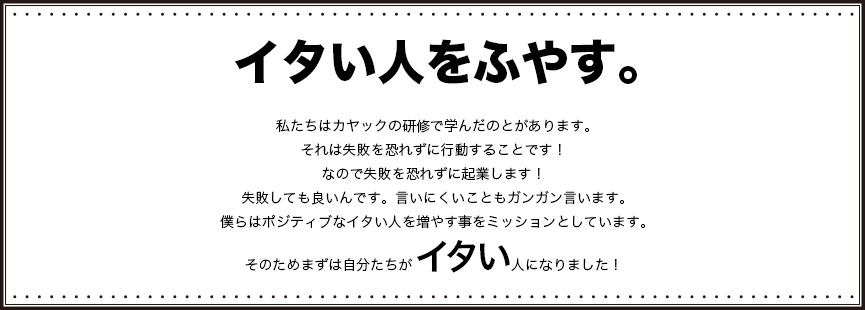
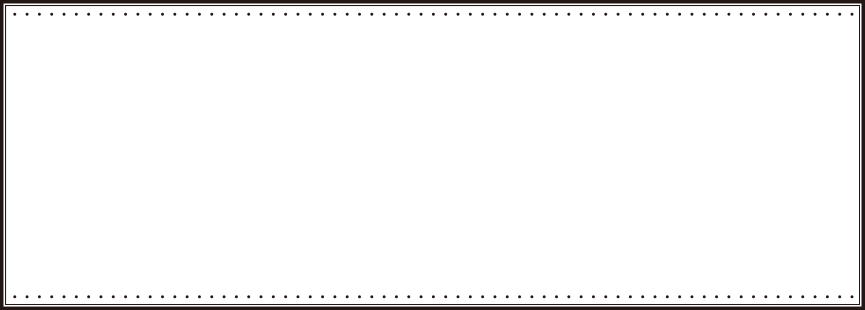
画像htmlcss修正

diff --git a/index.html b/index.html
@@ -11,7 +11,15 @@
       <img src="./image/logo.png" alt="logo" />
     </div>
     <div class="keiei_rinen">
-    　　経営理念
+      <p class="rinen_main">イタい人をふやす。</p>
+      <p class="rinen_text">
+        私たちはカヤックの研修で学んだことがあります。<br>
+        それは失敗を恐れずに行動することです！<br>
+        なので失敗を恐れずに起業します！<br>
+        失敗しても良いんです。言いにくいこともガンガン言います。<br>
+        僕らはポジティブなイタい人を増やす事をミッションとしています。<br>
+        そのためまずは自分たちが<span class="itai">イタい</span>人になりました！<br>
+      </p>
     </div>
     <div class="jigyoubu_list_container">
       <div class="jigyoubu_list herunia">

diff --git a/style.css b/style.css
@@ -1,3 +1,9 @@
+*{
+  border: none;
+  box-sizing: border-box;
+  margin: 0;
+  padding: 0;
+}
 body{
   text-align:center;
   background-image: url(./image/background.png);
@@ -19,7 +25,24 @@ body{
   width:865px;
   height: 310px;
   margin: 0 auto 80px;
-  text-indent: -9999px;
+  /*text-indent: -9999px;*/
+  padding: 20px;
+}
+.rinen_main{
+  font-family: "ヒラギノ角ゴ Std", "ヒラギノ角ゴ ProN", "メイリオ", Arial, sans-serif;
+  font-size: 48px;
+  font-weight: bold;
+  margin: 10px;
+}
+.rinen_text{
+  font-family: "ヒラギノ角ゴ ProN", "ヒラギノ角ゴ Std", "メイリオ", Arial, sans-serif;
+  font-size: 14px;
+  line-height: 25px;
+}
+.itai{
+  font-size: 36px;
+  font-weight: 600;
+  line-height: 45px;
 }
 .jigyoubu_list{
   display:inline-block;
